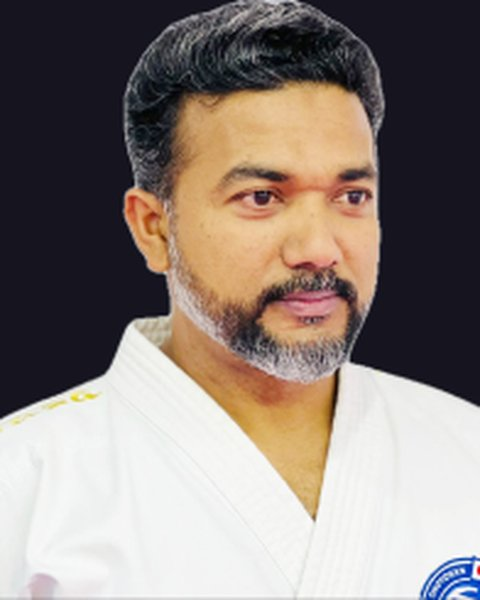
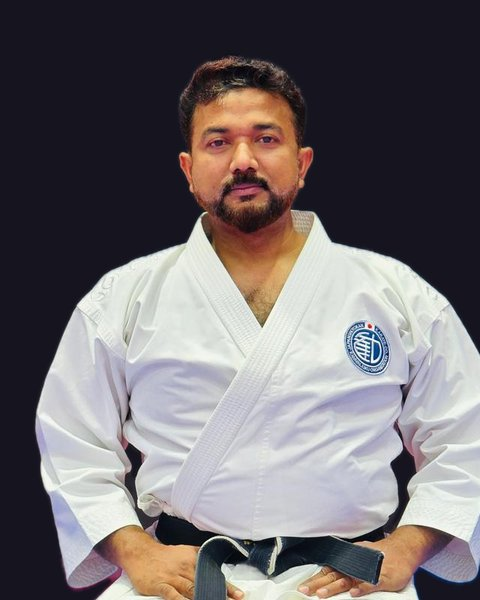
imageChanged : accrediction

diff --git a/index.html b/index.html
@@ -281,7 +281,7 @@
       <div class="accred-grid">
         <div class="accred-tile reveal">
           <div class="accred-logo">
-            <img src="images/web/accred-uae.png" alt="Emblem of the United Arab Emirates" width="309" height="400" loading="lazy" decoding="async">
+            <img src="images/web/accred-uae.jpg" alt="UAE General Authority of Youth &amp; Sports emblem" width="447" height="447" loading="lazy" decoding="async">
           </div>
           <h3 data-en="Approved by" data-ar="معتمد من">Approved by</h3>
           <p data-en="UAE General Authority of Youth &amp; Sports" data-ar="الهيئة العامة لرعاية الشباب والرياضة">UAE General Authority of Youth &amp; Sports</p>
@@ -289,7 +289,7 @@
 
         <div class="accred-tile reveal">
           <div class="accred-logo">
-            <img src="images/web/accred-uaekf.jpg" alt="UAE Karate Federation logo" width="400" height="400" loading="lazy" decoding="async">
+            <img src="images/web/accred-uaekf.png" alt="UAE Karate Federation logo" width="150" height="149" loading="lazy" decoding="async">
           </div>
           <h3 data-en="Approved by" data-ar="معتمد من">Approved by</h3>
           <p data-en="UAE Karate Federation" data-ar="اتحاد الإمارات للكاراتيه">UAE Karate Federation</p>
@@ -297,7 +297,15 @@
 
         <div class="accred-tile reveal">
           <div class="accred-logo">
-            <img src="images/web/accred-wkf.png" alt="World Karate Federation logo" width="400" height="400" loading="lazy" decoding="async">
+            <img src="images/web/accred-sharjah.jpg" alt="Sharjah Sport Council — Government of Sharjah logo" width="180" height="180" loading="lazy" decoding="async">
+          </div>
+          <h3 data-en="Approved by" data-ar="معتمد من">Approved by</h3>
+          <p data-en="Sharjah Sports Council — Government of Sharjah" data-ar="مجلس الشارقة الرياضي — حكومة الشارقة">Sharjah Sports Council — Government of Sharjah</p>
+        </div>
+
+        <div class="accred-tile reveal">
+          <div class="accred-logo">
+            <img src="images/web/accred-wkf.jpg" alt="World Karate Federation logo" width="148" height="148" loading="lazy" decoding="async">
           </div>
           <h3 data-en="Member of" data-ar="عضو في">Member of</h3>
           <p data-en="World Karate Federation" data-ar="الاتحاد الدولي للكاراتيه">World Karate Federation</p>
@@ -305,7 +313,7 @@
 
         <div class="accred-tile reveal">
           <div class="accred-logo">
-            <img src="images/web/accred-kisko.jpg" alt="Kanninjuku International Shotokan Karate-Do Organization logo" width="400" height="400" loading="lazy" decoding="async">
+            <img src="images/web/accred-kisko.png" alt="Kanninjuku International Shotokan Karate-Do Organization logo" width="360" height="360" loading="lazy" decoding="async">
           </div>
           <h3 data-en="Affiliated with" data-ar="منتسب إلى">Affiliated with</h3>
           <p data-en="Kanninjuku International Shotokan Karate-Do Organization, Japan" data-ar="منظمة كانينجوكو الدولية لكاراتيه شوتوكان — اليابان">Kanninjuku International Shotokan Karate-Do Organization, Japan</p>

diff --git a/css/style.css b/css/style.css
@@ -568,7 +568,7 @@ html[dir="rtl"] .chief-quote { border-radius: 12px 0 0 12px; }
 /* ─────────── Accreditations ─────────── */
 .accred-grid {
   display: grid;
-  grid-template-columns: repeat(4, 1fr);
+  grid-template-columns: repeat(5, 1fr);
   gap: 22px;
   margin-top: 56px;
 }
@@ -617,6 +617,7 @@ html[dir="rtl"] .chief-quote { border-radius: 12px 0 0 12px; }
 .accred-grid .accred-tile:nth-child(2) { --d: 0.1s; }
 .accred-grid .accred-tile:nth-child(3) { --d: 0.2s; }
 .accred-grid .accred-tile:nth-child(4) { --d: 0.3s; }
+.accred-grid .accred-tile:nth-child(5) { --d: 0.4s; }
 
 /* ─────────── Lineage ─────────── */
 .lineage { background: var(--bg-soft); border-block: 1px solid var(--line); }